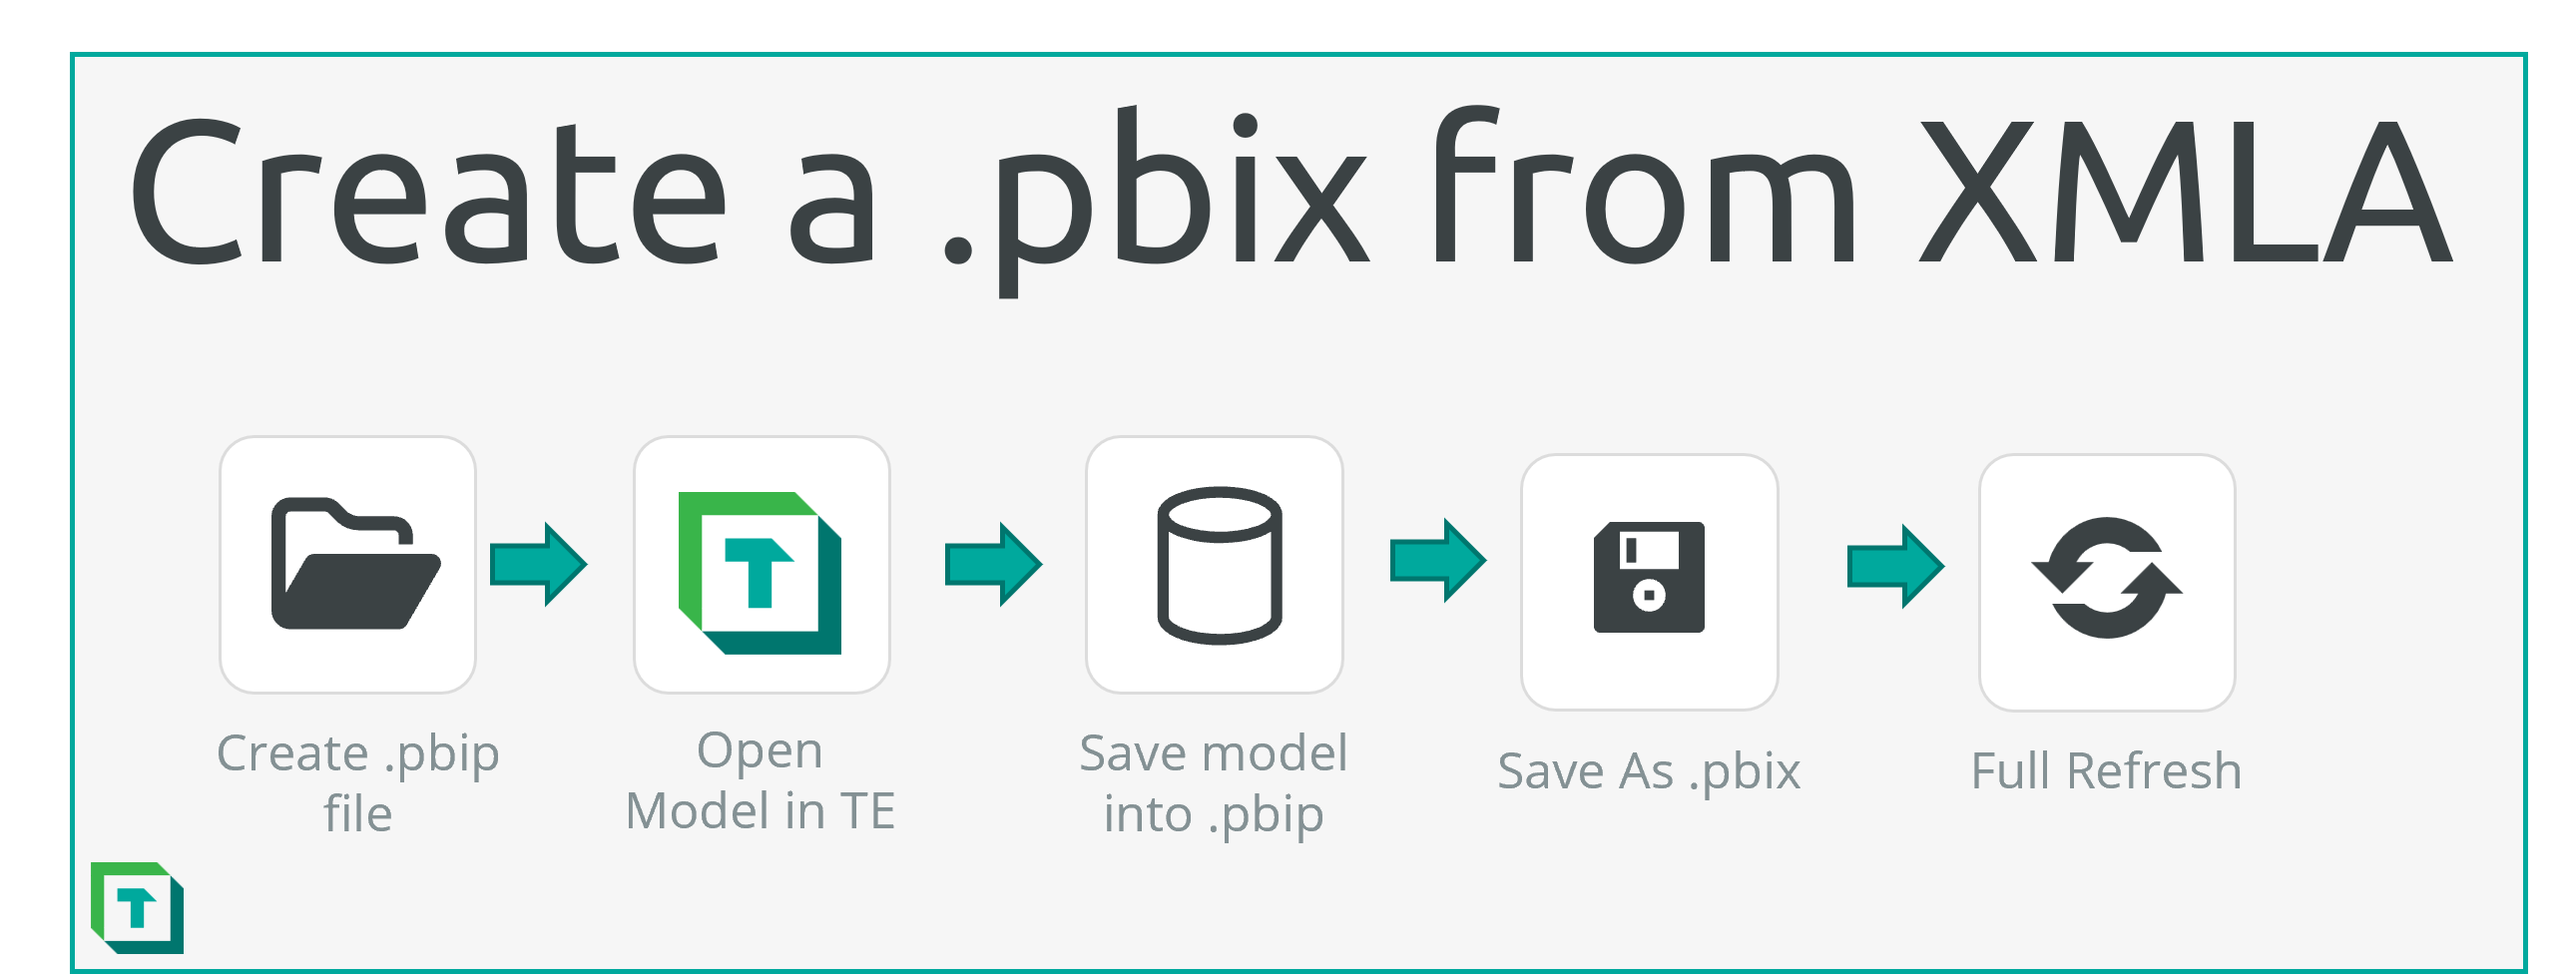
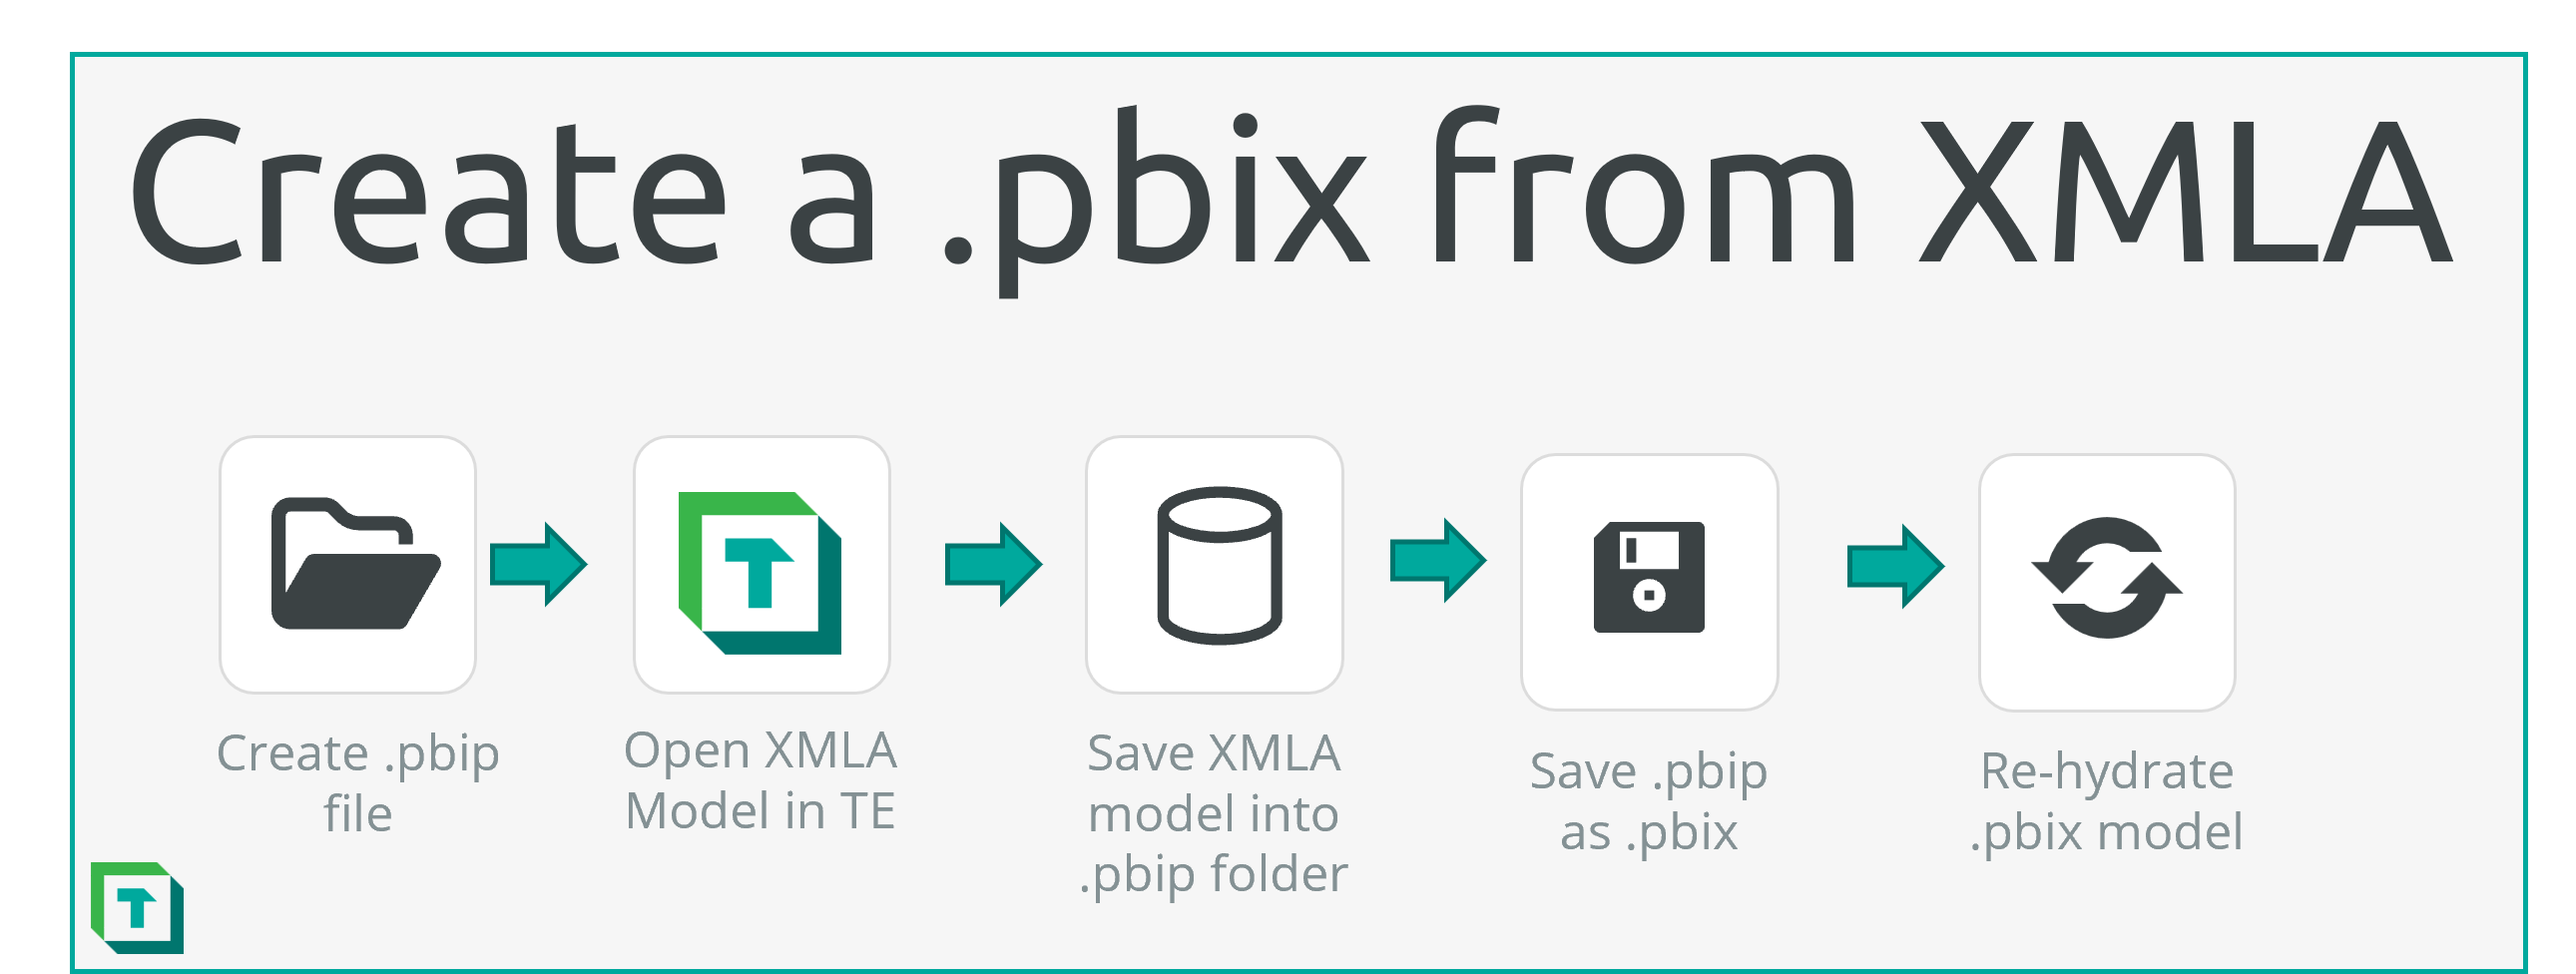
Fixes based on review

diff --git a/te3/powerbi-xmla-pbix-workaround.md b/te3/powerbi-xmla-pbix-workaround.md
@@ -15,7 +15,7 @@ applies_to:
 
 Once a change is made to a Power BI semantic model through the XMLA endpoint, it's not possible to download the dataset as a .pbix file from the Power BI service. 
 
-However, with the Power BI Project file, it's possible to create a pbix file from the remote model by following the three-step process, which is described as follows. 
+However, with the Power BI Project file, it's possible to create a .pbix file from the remote model by following the three-step process, which is described as follows. 
 
 ![XLMA to PBIX Overview](~/images/power-bi/create-pbix-from-xmla-overview.png)
 
@@ -36,19 +36,24 @@ This creates a folder structure that contains an empty _model_ file. This _model
 Close Power BI desktop, and proceed with the next step in Tabular Editor.
 
 
-## Step 2: Open and save the model as .pbip
+## Step 2: Open XMLA model with Tabular Editor and save the model as .pbip
 
 With Tabular Editor open, connect to the Fabric workspace via the XMLA endpoint. Load the Power BI semantic model you want to convert to a .pbix. 
 
-Using _File > Save as..._, navigate to the Power BI Project folder. Overwrite the _model_ file shown in the previous diagram. 
+## Step 3: Save XMLA model into .pbip
+
+In Tabular Editor using _File > Save as..._, navigate to the Power BI Project folder. Overwrite the _model.bim_ file shown in the previous diagram. 
 
 This will save the remote model into the Power BI Project that will now contain the model metadata.
 
 
-## Step 3: Save to .pbix and open this file in Power BI Desktop
+## Step 4: Save to .pbix and open this file in Power BI Desktop
 
 ![PBIP with Tables](~/images/power-bi/pbip-includes-tables.png)
 
-Open the .pbip and save it to a .pbix using _File > Save As..._ in Power BI Desktop.
+Open the .pbip and the Power BI report will now contain the XMLA endpoint semantic model.
 
-You know have the .pbix that contains the model that was published to the Fabric workspace. When you open the .pbix, you can _re-hydrate_ the file, meaning that you load the data based on the connections specified in the model.
+Save it to a .pbix using _File > Save As..._ in Power BI Desktop.
+
+## Re-hydrate .pbix
+The .pbix now contains the model that was published to the Fabric workspace. When you open the .pbix, you can _re-hydrate_ the file, meaning that you load the data based on the connections specified in the model.
